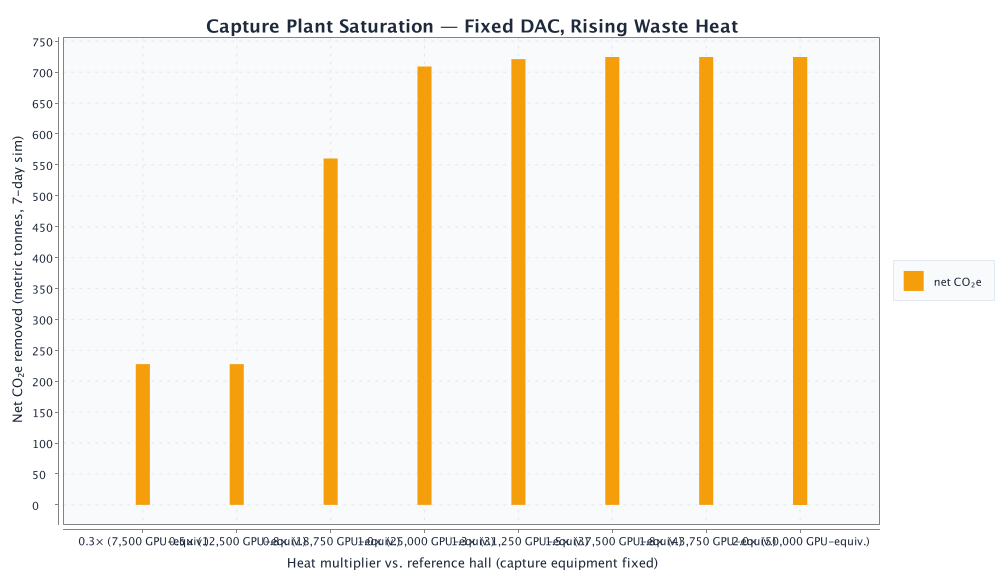
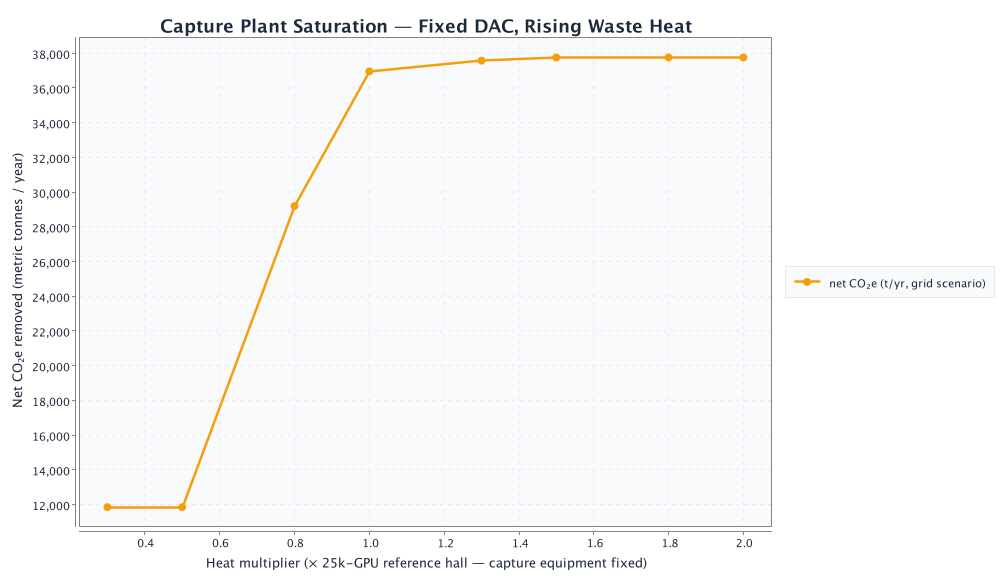
Fix unreadable thermal saturation charts with numeric line plots.
Replace overlapping category bar labels with XY line charts using heat
multiplier on the x-axis and annualized GWh/yr or t/yr on the y-axis.

diff --git a/src/main/java/com/heater/analysis/ChartGenerator.java b/src/main/java/com/heater/analysis/ChartGenerator.java
@@ -18,10 +18,8 @@ public final class ChartGenerator {
     private static final int W = 1000;
     private static final int H = 580;
     private static final String Y_THERMAL_ANNUAL = "Thermal service delivered (GWh / year)";
-    private static final String Y_THERMAL_7DAY = "Thermal service delivered (GWh, 7-day sim)";
     private static final String Y_ANNUAL = "Net CO₂e removed (metric tonnes / year)";
     private static final String Y_GROSS_NET = "CO₂e removed (metric tonnes / year)";
-    private static final String Y_7DAY = "Net CO₂e removed (metric tonnes, 7-day sim)";
 
     private final Path outputDir;
     private final double simDurationS;
@@ -92,21 +90,19 @@ public final class ChartGenerator {
 
     private String writeThermalSaturation(ResultsSummary summary) throws IOException {
         List<SweepPoint> pts = summary.bySweep("saturation");
-        List<String> labels = pts.stream()
-                .map(p -> String.format(Locale.US, "%.1f×\n(%,d GPU-equiv.)",
-                        heatMultiplierFromLabel(p.label()), p.gpuCount()))
-                .toList();
-        List<Double> y = pts.stream().map(p -> p.thermal().recoveredMwh() / 1000.0).toList();
-        CategoryChart chart = new CategoryChartBuilder()
+        List<Double> multipliers = pts.stream().map(p -> heatMultiplierFromLabel(p.label())).toList();
+        List<Double> y = pts.stream().map(p -> p.thermal().annualizedRecoveredGwh()).toList();
+        XYChart chart = new XYChartBuilder()
                 .width(W).height(H)
                 .title("Thermal Saturation — Fixed Plant, Rising Waste Heat")
-                .xAxisTitle("Heat multiplier vs. reference hall (capture equipment fixed)")
-                .yAxisTitle(Y_THERMAL_7DAY)
+                .xAxisTitle("Heat multiplier (× 25k-GPU reference hall — capture equipment fixed)")
+                .yAxisTitle(Y_THERMAL_ANNUAL)
                 .build();
-        ChartStyle.applyCategory(chart, ChartStyle.AMBER);
-        chart.getStyler().setXAxisLabelRotation(0);
+        ChartStyle.applyXy(chart, ChartStyle.AMBER);
+        chart.getStyler().setXAxisDecimalPattern("0.0#");
         chart.getStyler().setYAxisDecimalPattern("#,###");
-        chart.addSeries("thermal service", labels, y);
+        chart.addSeries("thermal service (GWh/yr)", multipliers, y);
+        ChartStyle.applyLineMarkers(chart);
         return save(chart, "thermal_saturation_gpu.png");
     }
 
@@ -199,21 +195,19 @@ public final class ChartGenerator {
 
     private String writeCo2Saturation(ResultsSummary summary) throws IOException {
         List<SweepPoint> pts = summary.bySweep("saturation");
-        List<String> labels = pts.stream()
-                .map(p -> String.format(Locale.US, "%.1f×\n(%,d GPU-equiv.)",
-                        heatMultiplierFromLabel(p.label()), p.gpuCount()))
-                .toList();
-        List<Double> y = pts.stream().map(p -> p.netCo2eKg() / 1000.0).toList();
-        CategoryChart chart = new CategoryChartBuilder()
+        List<Double> multipliers = pts.stream().map(p -> heatMultiplierFromLabel(p.label())).toList();
+        List<Double> y = pts.stream().map(SweepPoint::annualizedNetTonnes).toList();
+        XYChart chart = new XYChartBuilder()
                 .width(W).height(H)
                 .title("Capture Plant Saturation — Fixed DAC, Rising Waste Heat")
-                .xAxisTitle("Heat multiplier vs. reference hall (capture equipment fixed)")
-                .yAxisTitle(Y_7DAY)
+                .xAxisTitle("Heat multiplier (× 25k-GPU reference hall — capture equipment fixed)")
+                .yAxisTitle(Y_ANNUAL)
                 .build();
-        ChartStyle.applyCategory(chart, ChartStyle.AMBER);
-        chart.getStyler().setXAxisLabelRotation(0);
+        ChartStyle.applyXy(chart, ChartStyle.AMBER);
+        chart.getStyler().setXAxisDecimalPattern("0.0#");
         chart.getStyler().setYAxisDecimalPattern("#,###");
-        chart.addSeries("net CO₂e", labels, y);
+        chart.addSeries("net CO₂e (t/yr, grid scenario)", multipliers, y);
+        ChartStyle.applyLineMarkers(chart);
         return save(chart, "co2_saturation_gpu.png");
     }
 

diff --git a/README.md b/README.md
@@ -462,7 +462,7 @@ As the U.S. grid decarbonizes, **GPU operational CO₂ falls** but **waste heat 
 
 **Pools, fisheries, showers vs. DAC?** Same exhaust, different router priority — a **policy choice** about where to send thermal service before dissipation.
 
-### Generated at: 2026-06-05T10:38:49.285562Z
+### Generated at: 2026-06-05T10:41:43.968062Z
 
 ### Sources
 